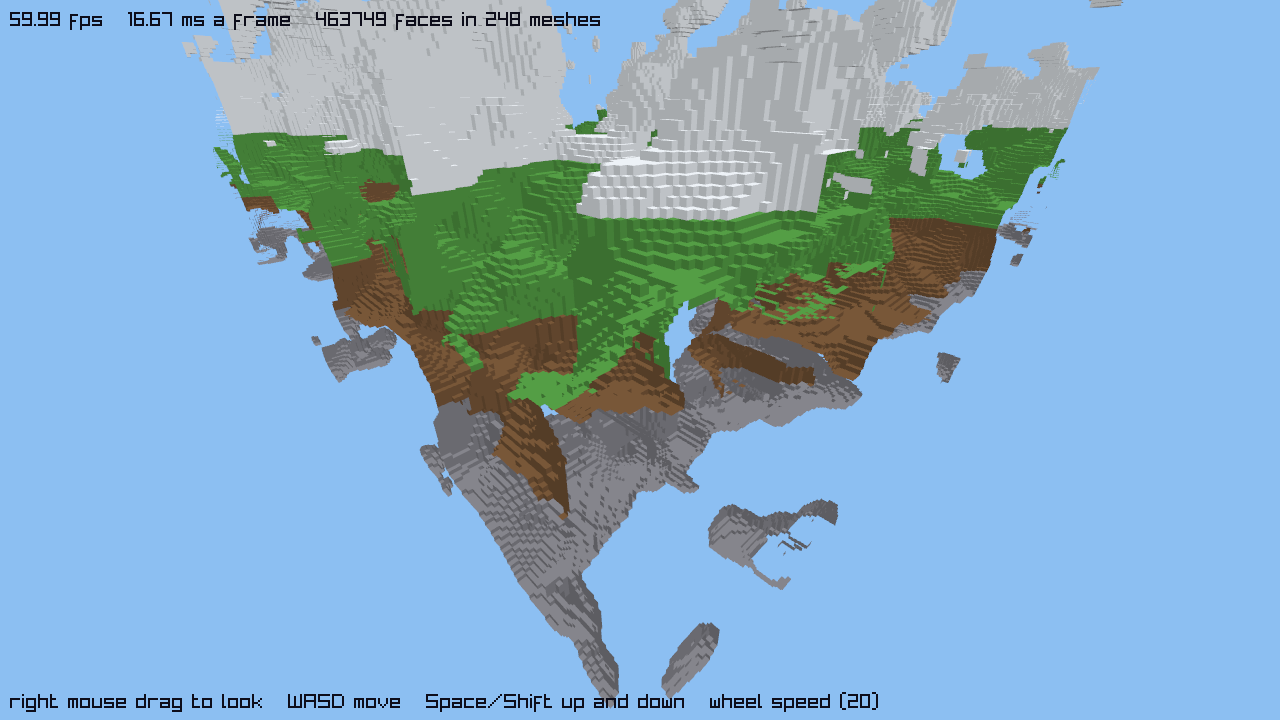
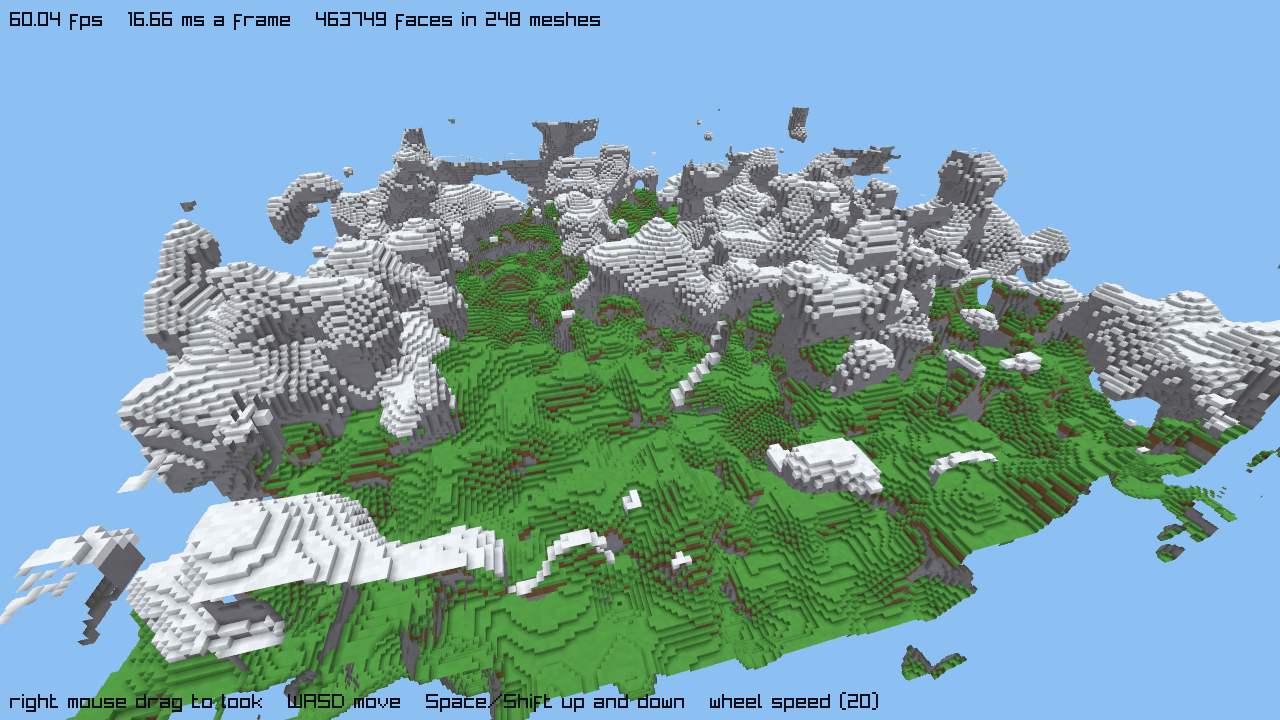
Start the voxel viewer above the peaks looking down, and update its screenshot, results and docs
The viewer now starts outside the world's -x side, above the peaks, looking over the grassy middle to the mountains. The screenshot shows the new colouring from there. results.md says how the faces are coloured now and what it cost (the build about 8% longer, from two more rows of noise per chunk; the upload and the frame the same), and the README and the 3D spec's "As built" record the change.

diff --git a/kestrel/demos/voxels/results.md b/kestrel/demos/voxels/results.md
@@ -2,11 +2,11 @@
 
 Measured on 2026-10-11. The viewer is `voxels.kes` (with `world.kes` and `fly.kes`): a `par for` builds every chunk's `MeshData`, one loop turns each into a GPU `Mesh`, and every frame draws all the meshes. The spec's success line is "the voxel viewer shows the 8×4×8-chunk world (463,749 faces) at 60 fps on the development machine."
 
-**Short answer.** At `WIDTH = 8` (463,749 faces, 248 meshes) the world builds in about 73-78 ms and uploads in about 53-59 ms, and **the frame holds 60 fps**. But **every one of these runs was held at 60 fps by the machine** (a 16.67 ms frame on a hidden window, which is normally not capped; see "The 60 fps cap" below), so the frame time and fps in the tables are the display's, not the program's. What the program itself uses is the CPU `draw` time: 0.2-0.3 ms at `WIDTH = 8` and about 0.8 ms at `WIDTH = 16`. I looked for where the real limit is by making the world bigger: **the frame is still held at 60 fps up to `WIDTH = 24` (4.2 million faces) and passes 16.67 ms only at `WIDTH = 32` (7.3 million faces, 16 times the spec's world), where it is 16.95 ms (59 fps).** From about `WIDTH` 24 the program waits inside its draw calls, which points at the graphics driver and the GPU, not at Kestrel's code.
+**Short answer.** At `WIDTH = 8` (463,749 faces, 248 meshes) the world builds in about 73-78 ms and uploads in about 53-59 ms, and **the frame holds 60 fps**. (These tables were measured before the terrain got its new colouring the same day; that made the build about 8% longer, so an estimated 80 ms, and left the upload and the frame as they were. See "The colouring change" at the end.) But **every one of these runs was held at 60 fps by the machine** (a 16.67 ms frame on a hidden window, which is normally not capped; see "The 60 fps cap" below), so the frame time and fps in the tables are the display's, not the program's. What the program itself uses is the CPU `draw` time: 0.2-0.3 ms at `WIDTH = 8` and about 0.8 ms at `WIDTH = 16`. I looked for where the real limit is by making the world bigger: **the frame is still held at 60 fps up to `WIDTH = 24` (4.2 million faces) and passes 16.67 ms only at `WIDTH = 32` (7.3 million faces, 16 times the spec's world), where it is 16.95 ms (59 fps).** From about `WIDTH` 24 the program waits inside its draw calls, which points at the graphics driver and the GPU, not at Kestrel's code.
 
 ![The viewer at its start position, WIDTH 8](screenshot.png)
 
-The picture is a hidden-window screenshot at frame 300, taken by a scratch copy of the viewer that calls `window.screenshot` (the overlay shows the last report's numbers): four height bands (stone, dirt, grass, snow), each face shaded by the way it faces, nothing inside-out.
+The picture is a hidden-window screenshot at frame 300 from the viewer's start view, taken by a scratch copy of the viewer that calls `window.screenshot` (the overlay shows the last report's numbers), then reduced to 256 colours to keep the file under 500 KB (the pixels moved by less than half a step on average). It shows the new colouring: grass on top, a band of dirt where the ground steps down, grey rock in the cliffs and under the snow caps, soft dark corners where blocks meet, each face shaded by the way it faces, and nothing inside-out. In the middle is a grassy valley, with mountains behind it and pieces of floating rock at the edges.
 
 ## What the numbers are
 
@@ -22,8 +22,8 @@ The per-second columns follow `demos/particles/results.md`: each cell is the med
 
 - AMD Ryzen 7 5800X (8 cores, 16 threads), NVIDIA GeForce RTX 3070 (driver 591.86), Windows 11, a 60 Hz display. `par for` used all 16 threads unless `KESTREL_THREADS` says otherwise.
 - A 1280×720 window, vsync on. **Every run used a hidden window** (`KESTREL_HIDDEN=1`), because the user must not see one.
-- Both `kestrel run --release` (the JIT) and a `kestrel build --release` exe. The exe is 992,768 bytes (969.5 KiB), the same at every `WIDTH`.
-- Measured copies of `voxels.kes` with only `WIDTH` changed (8 or 16). The camera stays at its start (a hidden window gets no input), so every run draws the same view.
+- Both `kestrel run --release` (the JIT) and a `kestrel build --release` exe. The exe was 992,768 bytes (969.5 KiB), the same at every `WIDTH`; with the new colouring it is 991,744 bytes (968.5 KiB).
+- Measured copies of `voxels.kes` with only `WIDTH` changed (8 or 16). The camera stays at its start (a hidden window gets no input), so every run draws the same view. That was the old start view, outside the world's corner and below the peaks; the colouring change moved it.
 - `bench/particles/measure.py` ran the commands in interleaved rounds (JIT and exe of each `WIDTH` in turn) and killed each process it started after 11 seconds. 4 rounds for the frame columns; the start-up columns pool those with a 10-round batch (14 runs each).
 - The machine is noisy: a desktop with other programs open, and the GPU showed 20-37% busy with nothing of mine running. Read differences under about 10% as noise.
 
@@ -168,3 +168,37 @@ python bench/particles/measure.py --rounds 4 --retry-capped 1 \
 ```
 
 `measure.py` prints the medians and ranges (a row's `build ms` and `upload ms` are over the runs, `draw`, `frame` and `fps` over the per-second lines), warns about runs held to 60 fps (a median frame between 16.4 and 17.0 ms) and kills each process it started after 11 seconds. Every command needs `KESTREL_HIDDEN=1`. The viewer prints `voxels world 8 chunks 256 meshes 248 faces 463749 build 66.49 ms upload 51.07 ms` at start, and a line like `voxels 8 meshes 248 faces 463749 draw 0.23 ms frame 16.67 ms fps 60` once a second. For a one-thread build, add `KESTREL_THREADS=1`.
+
+## The colouring change
+
+Later on 2026-10-11, after the measurements above, the user asked for prettier terrain. The world's shape, its 463,749 faces and their 4 vertices, 4 colours and 6 indices each are the same, and so is the noise; what changed is the colour of each corner, the order of some faces' indices, and the start view.
+
+### How the faces are coloured
+
+This replaces the spec's "coloured by its height band" (the old picture had flat horizontal bands: stone low down, then dirt, grass and snow).
+
+- **Layers by depth.** A block is coloured by how many solid blocks are right above it. The top block of a column (air right above it) is grass, or snow from height 88 up. The two under it are dirt, or rock where the top is snow, so peaks are snow on rock. Deeper is rock. So a cliff shows a grass edge, a band of dirt, then rock, as in Minecraft. To see three blocks up, `solids` samples two more rows above each chunk (36 rows instead of 34).
+- **All six faces of a block take its colour.** A grass block's sides are green, which reads as turf from a distance. A test screenshot with dirt sides under a grass top made every one-block step a brown stripe, which looked busier, so I kept green sides.
+- **Ambient occlusion.** Each face corner is darkened by the solid blocks that touch it in the layer of air the face looks into: the two beside the corner and the one between them. Brightness is 1 with none, then 0.85, 0.7, and 0.55 in a nook (both sides solid). A quad is two triangles and the colour is blended across each, so the quad is cut along the diagonal whose corners are brighter: a single dark corner then shades softly instead of streaking along the cut.
+- **Variation.** Each block's colour is scaled by 0.97 to 1.03, from the noise's hash with a seed of its own, so flat ground isn't one flat colour.
+- The facing shades are as before: top 1.0, faces along ±x 0.8, along ±z 0.7, bottom 0.5.
+
+All of it is in the vertex colours, so drawing costs the same. There is still no lighting.
+
+The viewer now starts at (-40, 155, 70) with yaw 75 and pitch -33: just outside the world's -x side, above the peaks (the world is 128 high), looking down over the grassy middle to the mountains. The old start, (-24, 100, -24), looked at the world's outer walls from below the peaks.
+
+### What it cost
+
+A scratch copy of each version (the committed viewer before the change, with its old start view, and after it), run interleaved by `measure.py` in two batches, hidden windows, all threads. **A game was running on the machine the whole time** (45-77% of the CPU busy), so every number here is higher than in the tables above, and only old against new in the same batch means anything.
+
+| Batch | Run | build ms, old | build ms, new | upload ms, old | upload ms, new |
+|---|---|---:|---:|---:|---:|
+| 10 rounds | JIT | 107.6 (85.8-133.3) | 119.1 (97.5-133.9) | 78.2 (62.3-94.4) | 81.4 (59.6-141.0) |
+| 10 rounds | exe | 102.7 (88.0-163.5) | 106.9 (93.1-131.9) | 75.2 (58.7-235.8) | 75.3 (58.5-112.8) |
+| 8 rounds, a busier spell | JIT | 142.6 (93.8-197.2) | 157.6 (95.0-165.6) | 110.4 (63.7-166.6) | 137.3 (62.5-153.6) |
+| 8 rounds, a busier spell | exe | 143.7 (91.3-181.3) | 152.5 (92.7-190.7) | 118.2 (61.8-156.5) | 103.1 (66.0-215.4) |
+
+- **Build: 4-11% longer.** On one thread, where the timings are steadier, a scratch program timed the two halves of the build for all 256 chunks (9 passes of each version, interleaved; medians): the noise went from 510 to 553 ms (8% longer, about what its 6% more samples predict, within the noise), and the mesher from 68 to 70 ms (3%). The mesher does more for each face (12 more reads of the solid flags, four colours), but it now skips blocks with no air next to them before working anything out for them, which may pay for most of it (I did not time that part alone). So the extra rows of noise are most of the cost. On the tables' quiet machine that would make the build about 80 ms at `WIDTH` 8 (73-78 ms plus 8%); I did not measure that.
+- **Upload: the same** within the noise (the same 1.85 million vertices).
+- **Frame and draw: the same.** In the 10-round batch both versions drew in 0.26-0.28 ms (median) with the frame held at 60 fps, and one 11-second round of each gave the same (a draw of about 2 ms for both, with the game using the GPU).
+- The program arena after the upload is still 64 KiB.

diff --git a/docs/superpowers/specs/2026-10-10-3d-textures-design.md b/docs/superpowers/specs/2026-10-10-3d-textures-design.md
@@ -241,8 +241,9 @@ Where the build settled what this spec left open, or did something other than it
 - **`make_mesh` has size-limit errors beyond the spec's four,** because raylib takes buffer sizes as C `int`s: "draw3d.make_mesh got 200000000 vertices, but a mesh without indices can have at most 178956970; split it into smaller meshes" (12 bytes a vertex). A mesh can have at most 2,147,483,647 vertices and 1,073,741,823 indices (2 bytes each). They are unit-tested only, because a program would need over 2 GB of mesh data to reach them.
 - **One default material per window** is shared by `draw.rects` and by meshes. Freeing it frees only its array of maps, so it can never unload a program's texture.
 - **A hidden window doesn't wait for vsync** on the development machine (10,000 dots ran at about 4,300 fps hidden), so a hidden run's frame time is how long the program works on a frame. Judge 60 fps from the frame time. Hidden windows were also seen held at 60 fps for long stretches (40 minutes in one session, a whole working session in another), cause unknown; `kestrel/bench/particles/results.md` (the end) and `kestrel/demos/voxels/results.md` have the details, and `measure.py` warns about such runs.
-- **A release window exe is about 895 KiB** (it was about 812 KB before `rmodels` and JPG loading went in). The voxel viewer's is 969.5 KiB.
-- **The voxel viewer's results** are in `kestrel/demos/voxels/results.md`: at `WIDTH` 8 (463,749 faces) it builds in about 73-78 ms, uploads in about 53-59 ms and holds 60 fps (capped; every hidden run that day was held at 60 fps, so the headroom was found by growing the world: 60 fps holds up to `WIDTH` 24, 4.2 million faces, and drops just below at `WIDTH` 32, 7.3 million faces, 16.95 ms). The arena frees the CPU data for the program (the program arena stays at 64 KiB), but the runtime keeps the freed blocks in a per-thread spare cache of up to 256 MiB (`runtime/src/blocks.rs`), so the process's memory does not shrink: a headless exe held 172 MiB for the whole run at `WIDTH` 8.
+- **A release window exe is about 895 KiB** (it was about 812 KB before `rmodels` and JPG loading went in). The voxel viewer's is 968.5 KiB.
+- **The voxel viewer's faces are coloured by depth, not by height band,** a change the user asked for after seeing the viewer. A block is coloured by how many solid blocks are right above it: the top block of a column is grass (snow from height 88 up), the two under it dirt (rock under snow), and deeper blocks rock, so cliffs show grass, dirt, then rock. Each face corner is also darkened by the solid blocks touching it (ambient occlusion, 1 down to 0.55, with each quad cut along its brighter diagonal), and each block's colour varies by up to 3%. The facing shades (top 1.0, ±x 0.8, ±z 0.7, bottom 0.5), the world's shape and its 463,749 faces are unchanged, and it is all in the vertex colours. Seeing three blocks up takes two more rows of noise per chunk, which makes the build about 8% longer. The start view moved too, above the peaks and looking down. `kestrel/demos/voxels/results.md` ("The colouring change") has the details.
+- **The voxel viewer's results** are in `kestrel/demos/voxels/results.md`: at `WIDTH` 8 (463,749 faces) it builds in about 73-78 ms (before the colouring change; about 8% more since), uploads in about 53-59 ms and holds 60 fps (capped; every hidden run that day was held at 60 fps, so the headroom was found by growing the world: 60 fps holds up to `WIDTH` 24, 4.2 million faces, and drops just below at `WIDTH` 32, 7.3 million faces, 16.95 ms). The arena frees the CPU data for the program (the program arena stays at 64 KiB), but the runtime keeps the freed blocks in a per-thread spare cache of up to 256 MiB (`runtime/src/blocks.rs`), so the process's memory does not shrink: a headless exe held 172 MiB for the whole run at `WIDTH` 8.
 
 ## Testing
 

diff --git a/README.md b/README.md
@@ -74,14 +74,14 @@ target/release/kestrel run --release demos/particles/particles.kes
 
 Move the mouse to pull the particles. Space adds 1,000 more. The window shows the update and draw times, and the demo prints them once a second. It draws all the dots with one `draw.rects` call: 200,000 dots draw in about 4.6 ms (a frame takes 5.4 ms), against about 29 ms when each dot was its own `draw.rect` call. `kestrel/demos/particles/results.md` has the numbers, and `kestrel/bench/particles/results.md` compares the demo with a Rust port on the same raylib (Kestrel is 2-7% behind there).
 
-The other showcase is a voxel viewer: fly through the 8x4x8-chunk world of `bench/voxels3d` (463,749 faces) in 3D.
+The other showcase is a voxel viewer: fly through the 8x4x8-chunk world of `bench/voxels3d` (463,749 faces) in 3D. Blocks are grass, dirt, rock or snow by how deep they are, with soft shading in the corners where blocks meet, all baked into the vertex colours (there is no lighting).
 
 ```bash
 target/release/kestrel run --release demos/voxels/voxels.kes
 ```
 
 - Hold the right mouse button and drag to look, WASD to move, Space and Shift to go up and down, the mouse wheel to change speed.
-- At start a `par for` builds every chunk's mesh on all cores (about 75 ms) and a loop copies them to the GPU (about 55 ms). Then each frame draws all 248 meshes, with an overlay of the fps, frame time and face count.
+- At start a `par for` builds every chunk's mesh on all cores (about 80 ms) and a loop copies them to the GPU (about 55 ms). Then each frame draws all 248 meshes, with an overlay of the fps, frame time and face count.
 - At the default size it holds 60 fps, the display's rate. That number is capped: every hidden window was held at 60 fps while the viewer was measured, so the headroom was found by growing the world (the constant `WIDTH` in `voxels.kes`). 60 fps (capped) still holds at 4.2 million faces, 9 times the world, and drops just below at 7.3 million. `kestrel/demos/voxels/results.md` has the numbers and what limits it.
 
 Two environment variables help with testing:
